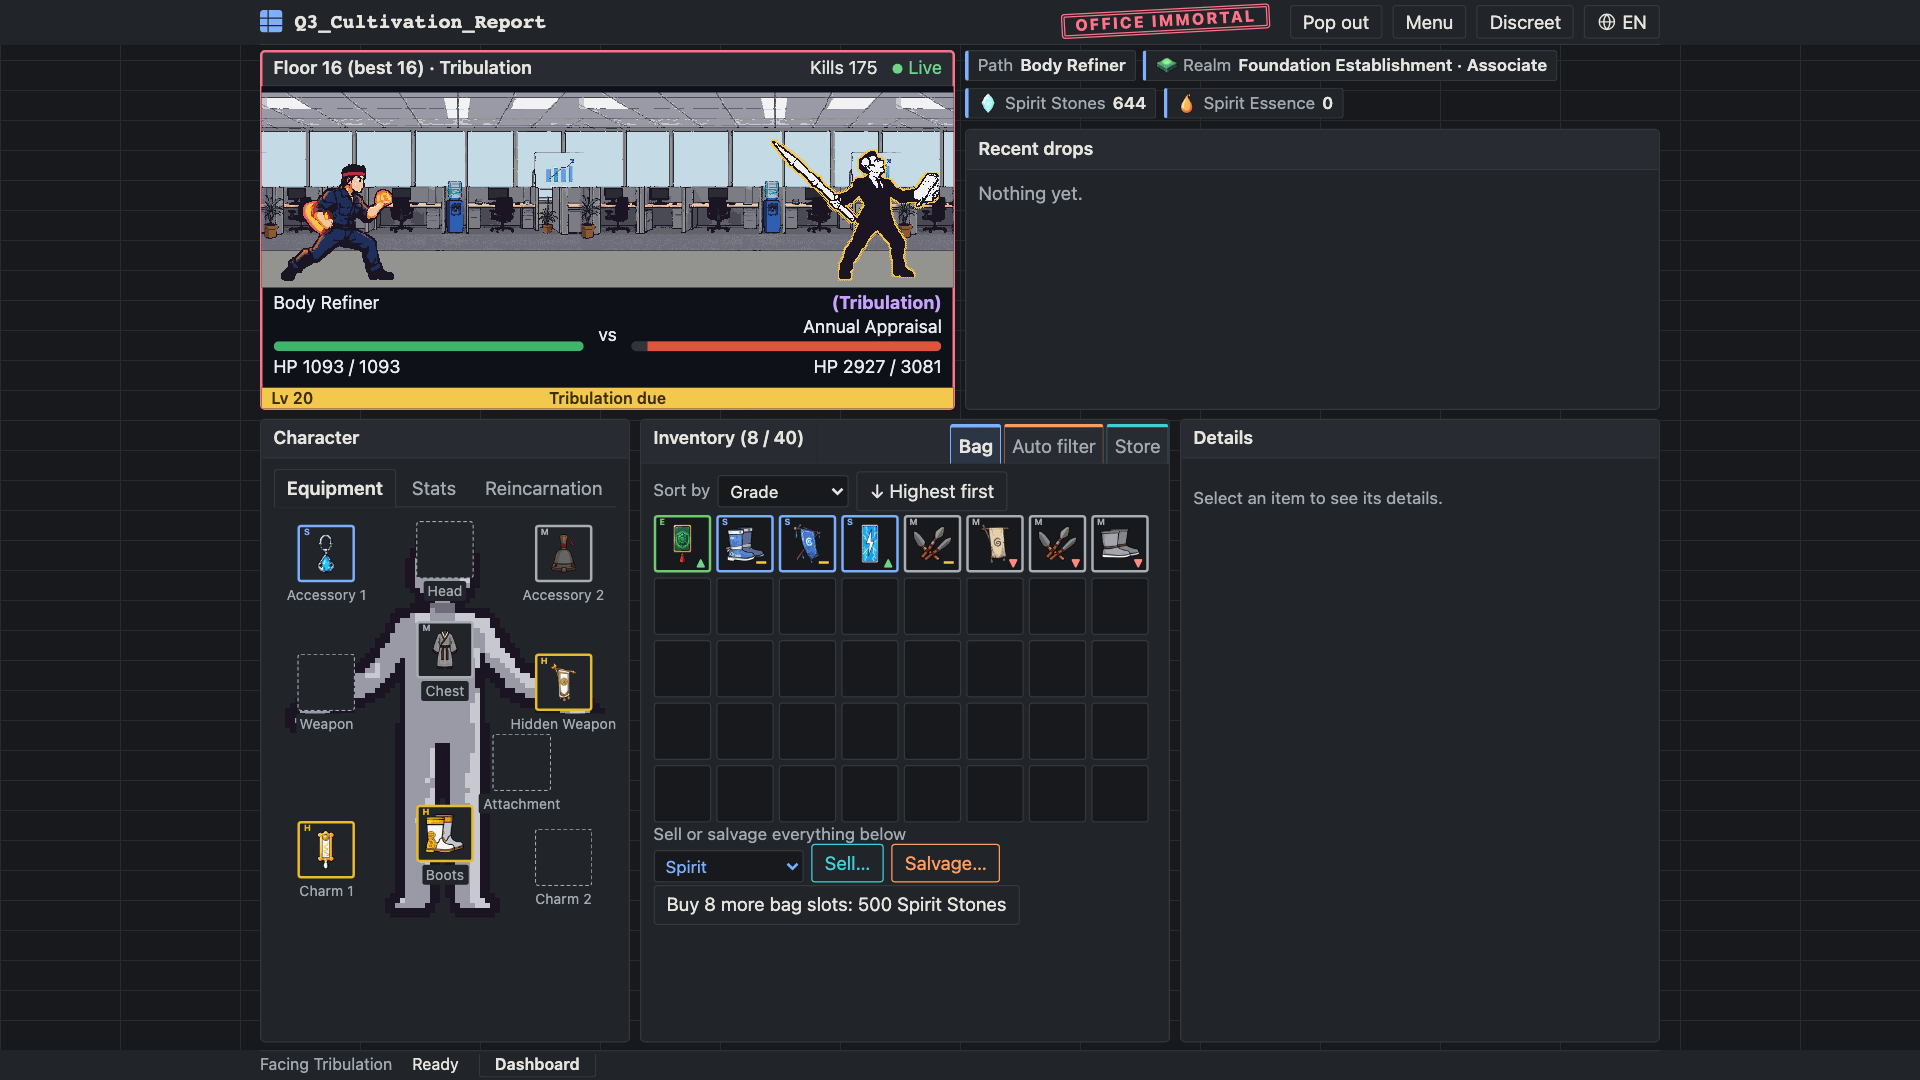
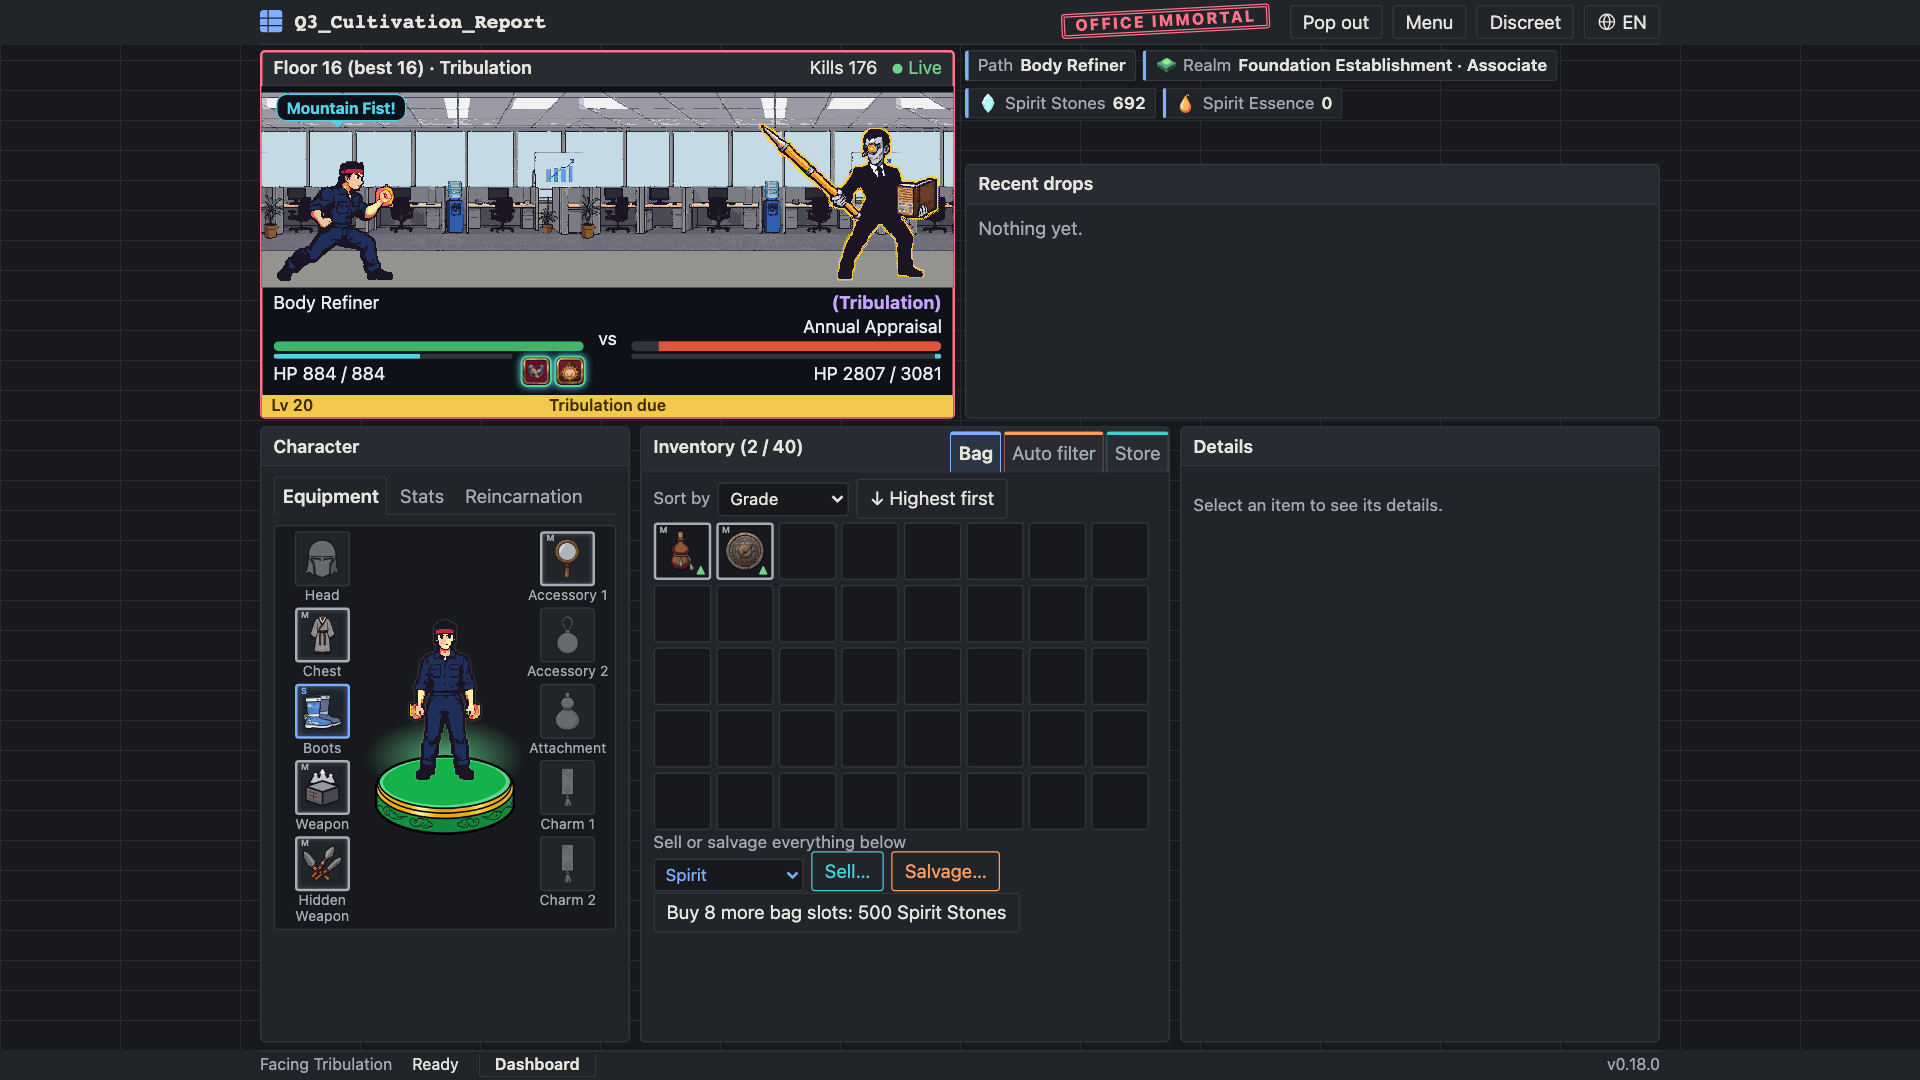
OI-073 Final UI and security check before the itch.io page goes Public (#154) (#171)
UI check (production build; Chrome, Firefox and WebKit; 960x640, 1136x867,
tall, 1920x1080 and 375 px; English and Vietnamese; dark and light):
- Compact strip (under 720 px tall): the enemy's name gets the whole line
  and its HP moves beside its qi bar, so the longest elite, boss and
  Tribulation names no longer end in an ellipsis. Strip height unchanged.
- Character tabs sit closer and stay on one line, so the Stats tab's
  unspent-points dot no longer drops under its label in English.
- Store screenshots and the GIF retaken from the release build. The test-save
  generator now plays with Auto-assign on (points wait unspent since the
  stat rebalance) and finds the Immortal drop from the save as the game
  loads it; the trailer ignores a frame acked after its page closed.

Security check (full codebase, dist/, the itch.io zip, git history):
- Oversized input: redeem_link_code refuses a code over 64 characters before
  normalising it (new migration), with hostile pgTAP tests.
- Known limit in docs/design.md: why refusing the frames on an opener does
  not help (an opener can disown itself before loading our page).

Version 0.18.0.

diff --git a/tools/marketing/saves.ts b/tools/marketing/saves.ts
@@ -9,7 +9,12 @@
 //   npm run marketing:saves
 
 import { mkdirSync, writeFileSync } from 'node:fs';
-import { derive, readyForTribulation, type Cultivator } from '../../src/core/cultivator.ts';
+import {
+  derive,
+  readyForTribulation,
+  type Cultivator,
+  type PathId,
+} from '../../src/core/cultivator.ts';
 import { bulkTake } from '../../src/core/economy.ts';
 import { slotsFor, type EquipSlotId } from '../../src/core/loot.ts';
 import { buyPassive, passiveCost, type PassiveId } from '../../src/core/prestige.ts';
@@ -34,6 +39,12 @@ const DAY = 24 * 60 * 60;
 function power(c: Cultivator): number {
   const d = derive(c);
   return (d.damage / d.attackInterval) * d.maxHp * (1 + d.defence / 50);
+}
+
+/** A new run with Auto-assign on, so level-up points go where a player would put them. */
+function start(seed: number, path: PathId): GameState {
+  const state = newGame(seed, path);
+  return { ...state, statPlan: { ...state.statPlan, auto: true } };
 }
 
 /** Equips the bag item that makes the cultivator strongest, again and again, until none helps. */
@@ -81,12 +92,15 @@ function spend(state: GameState, order: readonly PassiveId[]): GameState {
 /**
  * The first seed, from 1 up, whose next `seconds` of play drop an Immortal
  * item into the bag, so the capture can play on until it lands. Played as the
- * page plays it: the store's stock is rolled on load and after every step, and
- * each roll draws from the same random numbers as the fight.
+ * page plays it: from the save as the page loads it (the fight's skill state is
+ * never saved, so a loaded fight plays on afresh), the store's stock rolled on
+ * load and after every step, each roll drawing from the same random numbers as
+ * the fight.
  */
 function immortalSoon(state: GameState, seconds: number): GameState {
   for (let s = 1; s < 1_000_000; s++) {
-    const seeded = { ...state, rng: { s } };
+    const seeded = decodeSave(encodeSave({ ...state, rng: { s } }, SAVED_AT))?.state;
+    if (!seeded) throw new Error('immortal-drop: the save does not load');
     let later = syncStore(seeded);
     for (let t = 0; t < seconds; t++) later = syncStore(tick(later, 1));
     if (later.inventory.some((item) => item.grade === 'immortal')) return seeded;
@@ -96,7 +110,7 @@ function immortalSoon(state: GameState, seconds: number): GameState {
 
 /** A Sword Cultivator's second run, climbed far enough for high-grade gear. */
 const late = playUntil(
-  spend(retire(playUntil(newGame(20261001, 'sword'), (s) => s.highestFloor >= 20, DAY)), [
+  spend(retire(playUntil(start(20261001, 'sword'), (s) => s.highestFloor >= 20, DAY)), [
     'xp',
     'treasure',
   ]),
@@ -106,13 +120,13 @@ const late = playUntil(
 
 const saves: Record<string, GameState> = {
   // A new run on its first floors.
-  'early-floor': playUntil(newGame(7, 'sword'), (s) => s.floor >= 3, DAY),
+  'early-floor': playUntil(start(7, 'sword'), (s) => s.floor >= 3, DAY),
   // The late run with room in the bag; an Immortal item drops within the minute.
   'immortal-drop': immortalSoon(bulkTake(late, 'sell', 'heaven'), 60),
   // A Body Refiner held at the Foundation Establishment cap (level 20), the Tribulation started.
   tribulation: faceTribulation(
     playUntil(
-      newGame(1, 'body'),
+      start(1, 'body'),
       (s) => s.cultivator.level >= 20 && readyForTribulation(s.cultivator) && canFaceTribulation(s),
       5 * DAY,
     ),
@@ -121,7 +135,7 @@ const saves: Record<string, GameState> = {
   inventory: late,
   // A Talisman Master on a second run, with Dao Insight spent and more to come.
   reincarnation: playUntil(
-    spend(retire(playUntil(newGame(55, 'talisman'), (s) => s.highestFloor >= 20, DAY)), [
+    spend(retire(playUntil(start(55, 'talisman'), (s) => s.highestFloor >= 20, DAY)), [
       'points',
       'xp',
     ]),

diff --git a/src/page.css b/src/page.css
@@ -919,9 +919,12 @@ select {
     margin-bottom: 0.2rem;
     padding-block: 0.15rem;
   }
-  /* Each fighter as one line of name and HP over a thin bar, so the names
-     and HP cover only the stage's top edge and the zone and sprites show under
-     them. The name ends in an ellipsis; its title attribute holds the full name. */
+  /* Each fighter as one line of name (and the cultivator's HP) over a thin
+     bar, so the names and HP cover only the stage's top edge and the zone and
+     sprites show under them. The enemy's name has the whole line, so the
+     longest Tribulation name fits; its HP goes beside its qi bar, a row the
+     cultivator's skill icons already make as tall, so the strip keeps its
+     height. The ellipsis is only a safety net; the title holds the full name. */
   .game .strip > .fighters {
     padding-block: 0.1rem 0;
   }
@@ -932,7 +935,8 @@ select {
   }
   .game .foe {
     grid-template-columns: auto minmax(0, 1fr);
-    grid-template-areas: 'hp name' 'bar bar' 'qi qi';
+    grid-template-areas: 'name name' 'bar bar' 'hp qi';
+    column-gap: 0.5rem;
   }
   /* The skill icons only, on the qi bar's row. */
   .game .fighter.you {
@@ -2816,6 +2820,13 @@ button:is(.sell, .salvage, [data-action='craft']):not([aria-disabled='true']):ho
 }
 .tab-dot[hidden] {
   display: none;
+}
+/* The Character tabs fill their 275 px bar in English, so they sit a little
+   closer; the Stats tab's dot then stays on its label's line instead of
+   dropping under it. */
+.character > .tabs > .tab {
+  padding-inline: 0.4rem;
+  white-space: nowrap;
 }
 /* A group that folds: its heading is a button with an arrow, its count
    after the title while folded. The button holds the count while it is

diff --git a/src/ui/contrast.test.ts b/src/ui/contrast.test.ts
@@ -456,6 +456,12 @@ describe('Full view layout', () => {
     expect((bag - PANEL_CHROME - THIN_SCROLLBAR - CELL_GAPS) / 8).toBeGreaterThanOrEqual(38.5);
   });
 
+  it('keeps each Character tab on one line, the Stats dot beside its label', () => {
+    const tab = rule(code, '.character > .tabs > .tab');
+    expect(tab).toMatch(/white-space:\s*nowrap/);
+    expect(tab).toMatch(/padding-inline:\s*0\.4rem/);
+  });
+
   it('makes the page the window’s height, the panels taking the rest', () => {
     const fit = media(FIT);
     expect(rule(fit, 'main > .game')).toMatch(/flex:\s*1 1 0/);
@@ -510,7 +516,13 @@ describe('Full view layout', () => {
     expect(rule(shortest, '.game .fighter')).toMatch(
       /grid-template-areas:\s*'name hp'\s*'bar bar'/,
     );
-    expect(rule(shortest, '.game .foe')).toMatch(/grid-template-areas:\s*'hp name'\s*'bar bar'/);
+    // The enemy's name has its whole line (the longest Tribulation name fits at
+    // 940 px); its HP sits beside its qi bar, a row the skill icons already make
+    // as tall on the cultivator's side.
+    expect(rule(shortest, '.game .foe')).toMatch(
+      /grid-template-areas:\s*'name name'\s*'bar bar'\s*'hp qi'/,
+    );
+    expect(rule(shortest, '.game .fighter.you')).toMatch(/'qi skills'/);
     expect(rule(shortest, '.game .fighter .name')).toMatch(/text-overflow:\s*ellipsis/);
     // The tier is a badge icon before the name; its label stays for screen readers.
     expect(rule(shortest, '.game .fighter .enemy-tier')).toMatch(/font-size:\s*0/);

diff --git a/tools/marketing/trailer.ts b/tools/marketing/trailer.ts
@@ -68,7 +68,8 @@ async function film(stage: Stage, scene: Scene, dir: string, n: number): Promise
     const file = join(dir, `s${n}-${String(frames.length).padStart(5, '0')}.jpg`);
     writeFileSync(file, Buffer.from(data, 'base64'));
     frames.push({ file, at: metadata.timestamp ?? 0 });
-    void cdp.send('Page.screencastFrameAck', { sessionId });
+    // A frame can still arrive as the page closes; its ack then has nowhere to go.
+    cdp.send('Page.screencastFrameAck', { sessionId }).catch(() => {});
   });
   await page.clock.resume();
   await cdp.send('Page.startScreencast', {

diff --git a/docs/design.md b/docs/design.md
@@ -1306,6 +1306,11 @@ save and its cloud save in a **storage frame**: a page without visible content
   itch.io game that opens our itch.io page in a popup can script our game
   (they share an origin) and act through it: upload over or delete the cloud
   save. It can't read the token, read a link code or link on its own (above).
+  Refusing the frames when our page has an opener (`top.opener`) doesn't help
+  (#154): the attacker opens a blank popup, sets its `opener` to null and only
+  then loads our page in it, keeping its handle, so the frames see no opener.
+  Only a Cross-Origin-Opener-Policy from itch.io would close this, and the
+  check would cost players opened from another site their cloud save.
   It can still fake or cover the frames to trick the player: a look-alike
   field on its own origin that catches a typed code, a fake code of its own,
   or text dragged into a hidden link frame. Each needs the attack running
